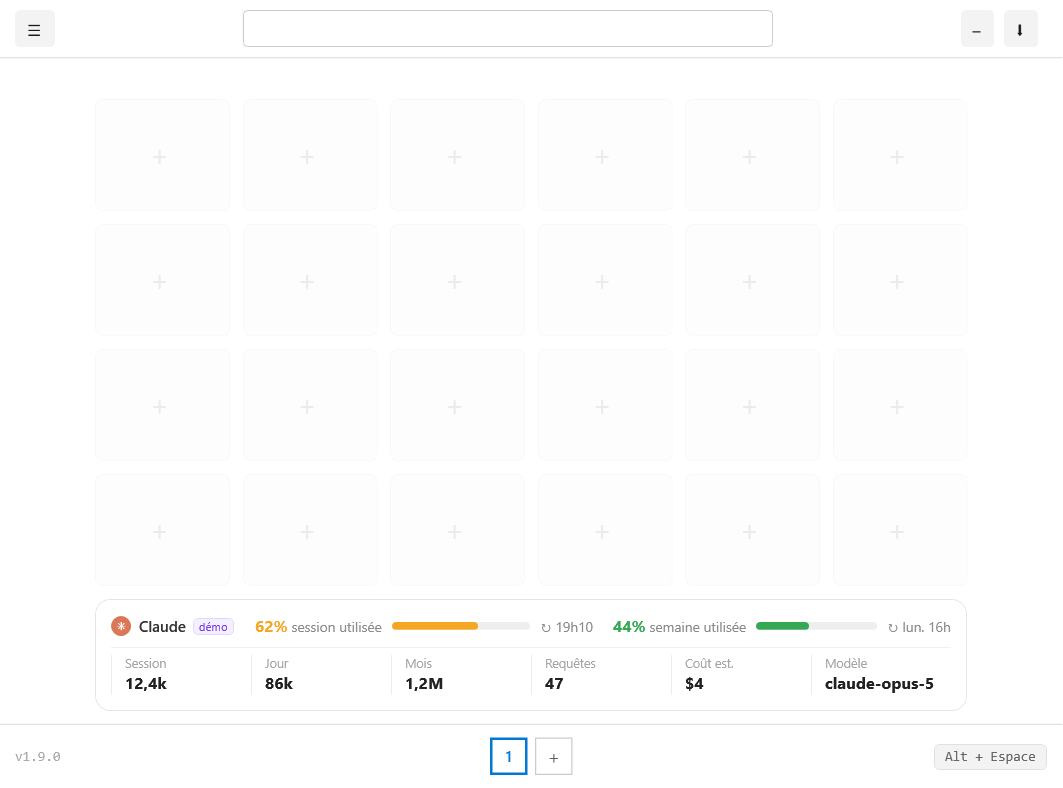
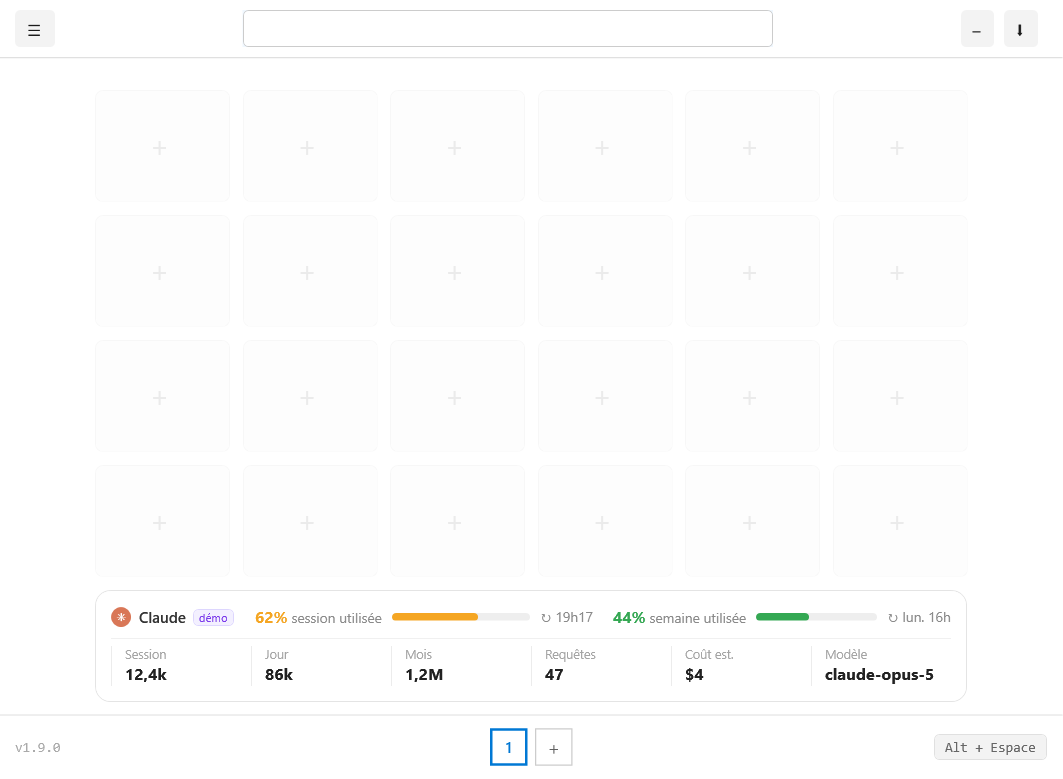
fix: la fenetre prend la hauteur de son contenu, plus de barre de defilement
La hauteur fixe de 630 px etait trop juste : mesure faite, la ligne de la
grille recevait 432 px pour 425 necessaires. Sept pixels de marge, qu'une
pagination un peu plus haute (boutons de page avec icone) suffit a manger —
d'ou la barre de defilement apparue en usage reel, absente de la fixture.

Toutes les lignes passent en Auto et la fenetre en SizeToContent, clampee a
la zone de travail : c'est le patron deja documente dans le projet pour un
contenu statique, et une grille 4x6 a tuiles fixes en est un. Sans mou dans
les lignes, l'ecart grille -> bandeau tient aux seules marges, et la grille
n'a plus besoin d'etre ancree en bas.

Contrepartie assumee : la fenetre ne se redimensionne plus en hauteur. Il
n'y avait rien a y gagner, le nombre de rangees est fixe.

L'outil de capture fait deux passages de mise en page : la geometrie du
bandeau est posee au premier LayoutUpdated, donc apres la premiere mesure,
et un seul passage sortait la pagination de l'image.

Claude-Session: https://claude.ai/code/session_01YT6Qea6YbvyeEBfMhfv4xK

diff --git a/Views/QuickAccessWindow.xaml b/Views/QuickAccessWindow.xaml
@@ -4,8 +4,9 @@
         xmlns:views="clr-namespace:DockPad.Views"
         Title="DockPad"
         Icon="pack://application:,,,/app.ico"
-        Width="850" Height="630"
-        MinWidth="850" MinHeight="560"
+        Width="850" SizeToContent="Height"
+        MaxHeight="{Binding Source={x:Static SystemParameters.WorkArea}, Path=Height}"
+        MinWidth="850"
         WindowStartupLocation="CenterScreen"
         WindowStyle="None"
         ResizeMode="CanResizeWithGrip"
@@ -115,9 +116,18 @@
     </Window.Resources>
 
     <Grid>
+        <!--
+            La ligne de la grille est Auto et la fenêtre prend la hauteur de son contenu
+            (SizeToContent), clampée à la zone de travail : c'est le patron documenté pour un contenu
+            statique, et la grille l'est (4 × 6, tuiles de taille fixe).
+
+            Une hauteur fixe ne marche pas ici. À 630 px, la ligne de la grille recevait 432 px pour
+            425 nécessaires — sept pixels de marge. Une pagination un peu plus haute (boutons de page
+            avec icône) suffisait à passer dessous et à faire apparaître une barre de défilement.
+        -->
         <Grid.RowDefinitions>
             <RowDefinition Height="Auto"/>
-            <RowDefinition Height="*"/>
+            <RowDefinition Height="Auto"/>
             <RowDefinition Height="Auto"/>
             <RowDefinition Height="Auto"/>
         </Grid.RowDefinitions>
@@ -250,17 +260,11 @@
 
         <!-- Grille de raccourcis 4 × 6 -->
         <ScrollViewer Grid.Row="1" VerticalScrollBarVisibility="Auto" HorizontalScrollBarVisibility="Disabled">
-            <!-- La hauteur de fenêtre (630) est celle qu'il faut juste pour la toolbar, les quatre
-                 rangées, le bandeau et la pagination : plus haut laisserait une bande vide sous la
-                 toolbar, la grille étant ancrée en bas.
-
-                 Ancré en bas, et non centré : centrée verticalement, la grille flotte dès qu'il
-                 reste du mou dans la ligne, et l'écart avec le bandeau n'est plus déterminé (mesuré
-                 42 px au lieu des 10 voulus). Ancrée en bas, la marge basse de 5 px plus les 5 px de
-                 marge d'une tuile donnent exactement le pas entre deux tuiles. Le mou passe
-                 au-dessus de la grille. -->
+            <!-- Marge basse à 5 : ajoutée aux 5 px de marge d'une tuile, l'écart entre la dernière
+                 rangée et le bandeau vaut 10 px, soit le pas entre deux tuiles. Avec une ligne Auto
+                 il n'y a plus de mou, donc l'écart est déterminé sans avoir à ancrer la grille. -->
             <Grid x:Name="ShortcutsGrid"
-                  HorizontalAlignment="Center" VerticalAlignment="Bottom"
+                  HorizontalAlignment="Center" VerticalAlignment="Center"
                   Margin="20,20,20,5">
                 <Grid.RowDefinitions>
                     <RowDefinition Height="Auto"/>

diff --git a/tools/UsageShot/Program.cs b/tools/UsageShot/Program.cs
@@ -112,16 +112,25 @@ internal static class Program
     private static void CaptureWindow(string outPath)
     {
         var quick = new QuickAccessWindow();
-        // Taille lue sur la fenêtre elle-même : une constante recopiée ici se désynchroniserait du
-        // XAML à la première retouche.
-        double width = quick.Width, height = quick.Height;
+        // Largeur lue sur la fenêtre ; la hauteur vient de la mesure, la fenêtre étant en
+        // SizeToContent (sa propriété Height vaut NaN).
+        double width = quick.Width;
         quick.UsageBannerPanel.ViewModel = FixtureViewModel();
         quick.UsageBannerPanel.Start();
 
         var root = (FrameworkElement)quick.Content;
-        root.Measure(new Size(width, height));
-        root.Arrange(new Rect(0, 0, width, height));
-        root.UpdateLayout();
+        // Deux passages : la géométrie du bandeau est posée au premier LayoutUpdated, donc APRÈS la
+        // première mesure. Sans le second passage, la hauteur retenue est celle d'avant et la barre
+        // de pagination sort de l'image. La vraie fenêtre, elle, en SizeToContent, se réajuste
+        // d'elle-même.
+        double height = 0;
+        for (int pass = 0; pass < 2; pass++)
+        {
+            root.Measure(new Size(width, double.PositiveInfinity));
+            height = root.DesiredSize.Height;
+            root.Arrange(new Rect(0, 0, width, height));
+            root.UpdateLayout();
+        }
 
         Save(root, width, height, outPath, "window");
     }

diff --git a/CLAUDE.md b/CLAUDE.md
@@ -287,7 +287,8 @@ Bandeau sous la grille (`Views/UsagePanel.xaml`), 4ᵉ ligne de `QuickAccessWind
 - **Aucun calcul dans le XAML** : tout vient de `UsageViewModel`, testé sans WPF. Les couleurs voyagent en chaînes (`#34A853`) converties par `StringToBrushConverter` — la décision de couleur appartient à la logique
 - **Valeur inconnue → `—`, jamais `0`.** Une session à zéro signifie « aucun bloc actif », pas « rien consommé ». Une fenêtre de quota absente affiche « quota inconnu » plutôt qu'une barre vide, qui se lirait « rien consommé »
 - **Géométrie calée sur les tuiles** : largeur = largeur du bloc de tuiles moins les marges horizontales d'une tuile (pour affleurer leurs bords visibles), hauteur = hauteur d'une tuile. Les deux sont lues **sur une tuile réelle** au premier `LayoutUpdated`, jamais recopiées depuis le style — une seule source de vérité, qui suit un changement de taille de tuile. `LayoutUpdated` et non `Loaded` : la mise en page a lieu même sans fenêtre affichée, ce dont l'outil de capture a besoin ; se désabonner après le premier passage évite la boucle
-- **La grille de tuiles est ancrée en bas** (`VerticalAlignment="Bottom"`), et la fenêtre fait 630 px de haut : centrée, la grille flotte dès qu'il reste du mou et l'écart avec le bandeau n'est plus déterminé (mesuré 42 px au lieu des 10 voulus). Ancrée, la marge basse de 5 px plus les 5 px de marge d'une tuile donnent exactement le pas entre deux tuiles
+- **La fenêtre prend la hauteur de son contenu** (`SizeToContent="Height"`, toutes les lignes en `Auto`, `MaxHeight` clampé sur la zone de travail) : c'est le patron documenté pour un contenu statique, et la grille 4 × 6 à tuiles fixes en est un. Une hauteur fixe ne tient pas — à 630 px la ligne de la grille recevait 432 px pour 425 nécessaires, et une pagination un peu plus haute (boutons de page avec icône) suffisait à faire apparaître une barre de défilement. Sans mou dans les lignes, l'écart grille → bandeau est déterminé par les seules marges, sans avoir à ancrer la grille
+- **Conséquence** : la fenêtre ne se redimensionne plus en hauteur (rien à y gagner, la grille a un nombre de rangées fixe). La largeur reste ajustable
 - **Cycle de vie** branché sur `IsVisibleChanged` + `StateChanged` de la fenêtre, pas sur chaque `Show()`/`Hide()` : un seul point, qui couvre les appels ajoutés plus tard. Rafraîchissement toutes les 60 s **uniquement quand la fenêtre est visible et non réduite** — DockPad passe l'essentiel de son temps dans la barre système
 - **Glyphes** : `FontFamily="Segoe UI Symbol, Segoe UI Emoji, Segoe UI"` obligatoire sur les pastilles — Segoe UI ne contient ni ✳ (U+2733) ni ⊕, qui tombent en tofu
 
@@ -487,7 +488,8 @@ UsageShot.exe window     docs/screenshots/usage-window.png      # integration da
 
 - **Fixture exclusivement `DemoUsageProvider`** (quatre instances), `ClaudeUsageProvider` délibérément absent : les vrais chiffres de consommation sont des données personnelles, et une capture doit être reproductible. C'est la raison d'être de la liste injectable de `UsageService` — le registre de production reste intact
 - La fixture déclare un fournisseur masqué et un non détecté, pour que les badges apparaissent sur la capture de la fenêtre de réglages : la machine de développement ne produit pas ces états d'elle-même
-- **La cible `panel` est rendue hors écran** (`Measure`/`Arrange` explicites, sans fenêtre) : une fenêtre à `SizeToContent` mesure avant que les données arrivent, ne reprend pas la hauteur ensuite, et la capture sortait rognée
+- **Les cibles `panel` et `window` sont rendues hors écran** (`Measure`/`Arrange` explicites, sans afficher de fenêtre) : une fenêtre à `SizeToContent` mesure avant que les données arrivent et ne reprend pas la hauteur ensuite, et `Show()` sur `QuickAccessWindow` déclenche la boucle décrite plus bas
+- **Deux passages de mise en page pour `window`** : la géométrie du bandeau est posée au premier `LayoutUpdated`, donc après la première mesure. Avec un seul passage, la hauteur retenue est celle d'avant et la barre de pagination sort de l'image
 - **`Start()` avant toute mesure** : sans données le bandeau est `Collapsed` et la capture est vide
 - **`app.ico` doit être liée dans le csproj de l'outil** (`<Resource Include="..\..\app.ico" Link="app.ico" />`) : `QuickAccessWindow` la référence par pack URI, qui se résout dans l'assembly **hôte**. Sans elle, la cible `window` lève une `IOException` au chargement du XAML. Les cibles de `BrowserShot` n'en ont pas besoin, ce sont des dialogs sans icône
 - **Rendre l'élément de contenu, pas le `Window`** : sur une fenêtre sans chrome (`WindowStyle=None`) le rendu du `Window` lui-même sort transparent
